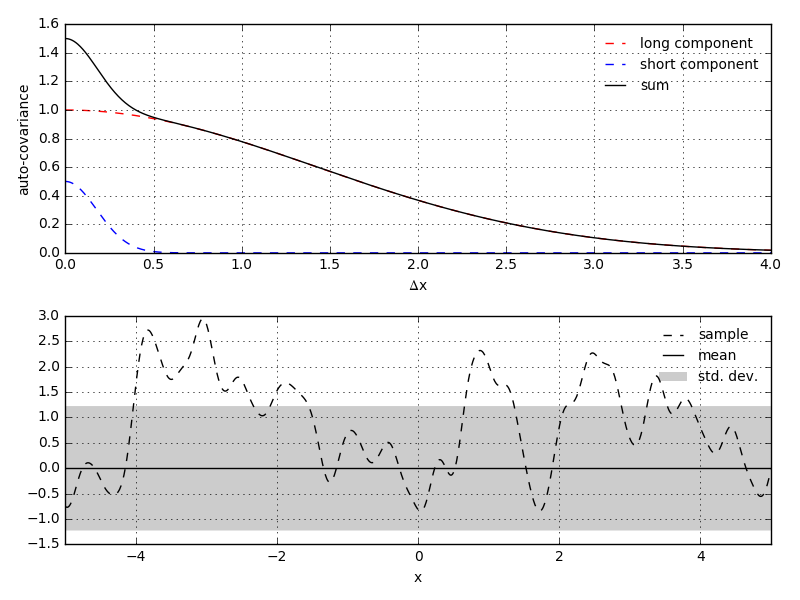
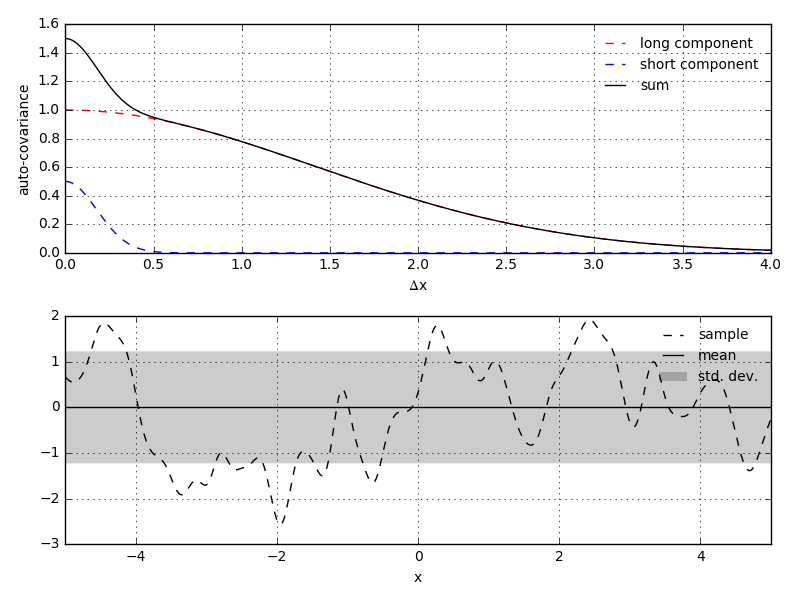
added new examples for gauss

Changed region(s): [[0.0312, 0.54, 0.9688, 0.9], [0.0312, 0.51, 0.0938, 0.54], [0.0312, 0.9, 0.0625, 0.93]]

diff --git a/docs/scripts/gauss.c.py b/docs/scripts/gauss.c.py
@@ -1,0 +1,100 @@
+''' 
+This script defines a function which performs robust Gaussian process 
+regression, where outliers are detected and ignored. This algorithm is 
+iterative; outliers are detected based on their misfit to the 
+posterior Gaussian process, and then a new posterior Gaussian process 
+is calculated with the detected outliers removed. Iterations continue 
+until no new outliers are detected. This algorithm is based on the 
+data editing algorithm from [1].
+
+References
+----------
+[1] Gibbs, B. Advanced Kalman Filtering, Least-Squares and 
+  Modeling: A Practical Handbook. John Wiley & Sons, 2011.
+
+'''
+import numpy as np
+import matplotlib.pyplot as plt
+import rbf
+np.random.seed(1)
+
+def robust_gpr(y,d,s,coeffs,x=None,basis=rbf.basis.se,order=1,tol=3.0):
+  ''' 
+  Parameters
+  ----------
+  y : (N,D) array
+    observation points
+
+  d : (N,) array
+    observations
+
+  s : (N,) array
+    observation uncertainties    
+  
+  coeffs : (3,) tuple
+    mean, variance, and characteristic length-scale of the prior 
+    Gaussian process
+  
+  x : (M,D) array
+    output points. Defaults to *y*
+    
+  basis : rbf.basis.RBF instance, optional
+    prior covariance function
+
+  order : int, optional  
+    order of the polynomial null space
+  
+  tol : float, optional
+    outlier tolerance. Smaller values make the outlier detection 
+    algorithm more sensitive.
+    
+  Returns 
+  -------
+  out_mean : (M,) array
+  out_sigma : (M,) array
+  
+  '''
+  if x is None: x = y
+  # Initially assume that none of the data are outliers
+  is_outlier = np.zeros(d.shape[0],dtype=bool)
+  prior = rbf.gauss.PriorGaussianProcess(coeffs,basis=basis,order=order)
+  while True:
+    # form posterior ignoring detected outliers
+    post = prior.condition(y[~is_outlier],d[~is_outlier],sigma=s[~is_outlier])
+    res = np.abs(post.mean(y) - d)/s # weighted residuals
+    rms = np.sqrt(np.mean(res[~is_outlier]**2)) # root mean square error
+    if np.all(is_outlier == (res > tol*rms)):
+      # break out out while loop if no new outliers are detected
+      print('detected outliers : %s' % is_outlier.nonzero()[0])
+      break
+    else:
+      # outliers are those which have a weighted residual that is
+      # significantly greater than the root mean square error
+      is_outlier = (res > tol*rms)
+
+  out_mean,out_sigma = post(x)
+  return out_mean,out_sigma
+
+
+y = np.linspace(-7.5,7.5,50) # obsevation points
+x = np.linspace(-7.5,7.5,1000) # interpolation points
+s = 0.1*np.ones(50) # noise standard deviation
+noise = np.random.normal(0.0,s)
+noise[20],noise[25] = 2.0,1.0 # add anomalously large noise
+d_true = np.exp(-0.3*np.abs(x))*np.sin(x)  # true signal at interp. points
+d = np.exp(-0.3*np.abs(y))*np.sin(y) + noise  # observations
+# find the mean and uncertainty of the posterior
+u,us = robust_gpr(y[:,None],d,s,(0.0,1.0,2.0),x=x[:,None]) 
+# plot the results
+fig,ax = plt.subplots() 
+ax.errorbar(y,d,s,fmt='k.',capsize=0.0,label='observations') 
+ax.plot(x,u,'b-',label='posterior mean') 
+ax.fill_between(x,u-us,u+us,color='b',alpha=0.2,edgecolor='none',label='posterior uncertainty') 
+ax.plot(x,d_true,'k-',label='true signal') 
+ax.legend(frameon=False,fontsize=10)
+ax.set_xlim((-7.5,7.5))
+ax.grid(True)
+fig.tight_layout()
+plt.savefig('../figures/gauss.c.png')
+plt.show()
+

diff --git a/docs/scripts/gauss.b.py b/docs/scripts/gauss.b.py
@@ -10,11 +10,9 @@ np.random.seed(1)
 
 dx = np.linspace(0.0,5.0,1000)[:,None]
 x = np.linspace(-5,5.0,1000)[:,None]
-
 gp_long = rbf.gauss.PriorGaussianProcess((0.0,1.0,2.0),basis=rbf.basis.se)
 gp_short = rbf.gauss.PriorGaussianProcess((0.0,0.5,0.25),basis=rbf.basis.se)
 gp = gp_long + gp_short
-
 # compute the autocovariances 
 acov_long = gp_long.covariance(dx,[[0.0]])
 acov_short = gp_short.covariance(dx,[[0.0]])
@@ -23,7 +21,6 @@ acov = gp.covariance(dx,[[0.0]])
 sample = gp.draw_sample(x) 
 # mean and uncertainty of the new gp
 mean,sigma = gp(x)
-
 # plot the autocovariance functions
 fig,axs = plt.subplots(2,1)
 axs[0].plot(dx,acov_long,'r--',label='long component')
@@ -39,11 +36,11 @@ axs[0].grid(True)
 axs[1].plot(x,sample,'k--',label='sample') 
 axs[1].plot(x,mean,'k-',label='mean')
 axs[1].fill_between(x[:,0],mean-sigma,mean+sigma,color='k',alpha=0.2,edgecolor='none',label='std. dev.')
-axs[1].set_xlim((-5,5))
-axs[1].grid(True)
 axs[1].set_xlabel('x',fontsize=10)
 axs[1].legend(fontsize=10,frameon=False)
 axs[1].tick_params(labelsize=10)
+axs[1].set_xlim((-5,5))
+axs[1].grid(True)
 plt.tight_layout()
 plt.savefig('../figures/gauss.b.png')
 plt.show()

diff --git a/docs/source/gauss.rst b/docs/source/gauss.rst
@@ -9,3 +9,9 @@ Examples
 --------
 .. literalinclude:: ../scripts/gauss.a.py
 .. image:: ../figures/gauss.a.png
+
+.. literalinclude:: ../scripts/gauss.b.py
+.. image:: ../figures/gauss.b.png
+
+.. literalinclude:: ../scripts/gauss.c.py
+.. image:: ../figures/gauss.c.png
